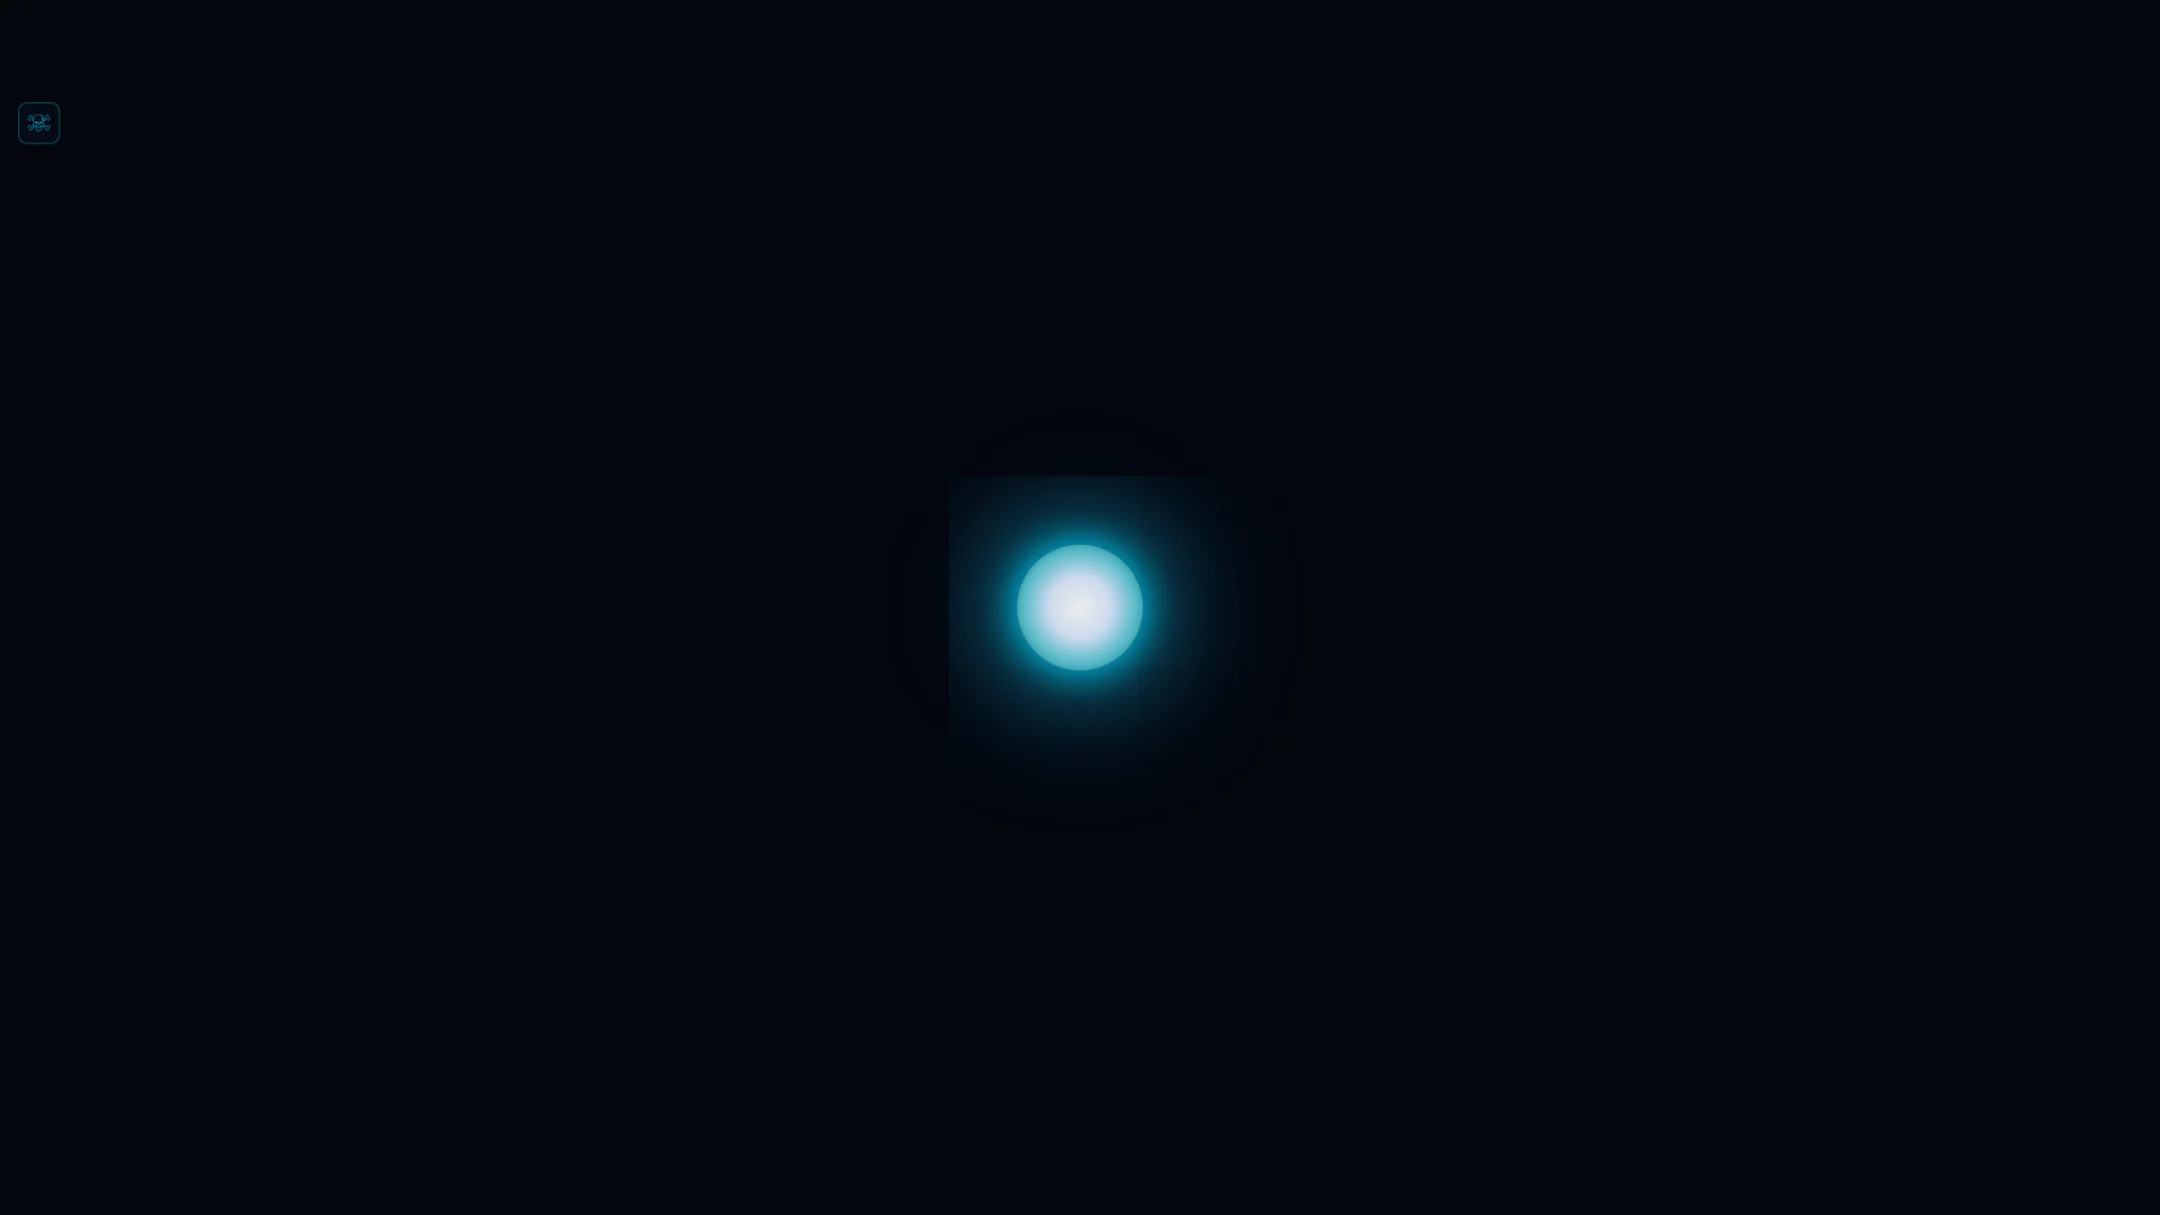
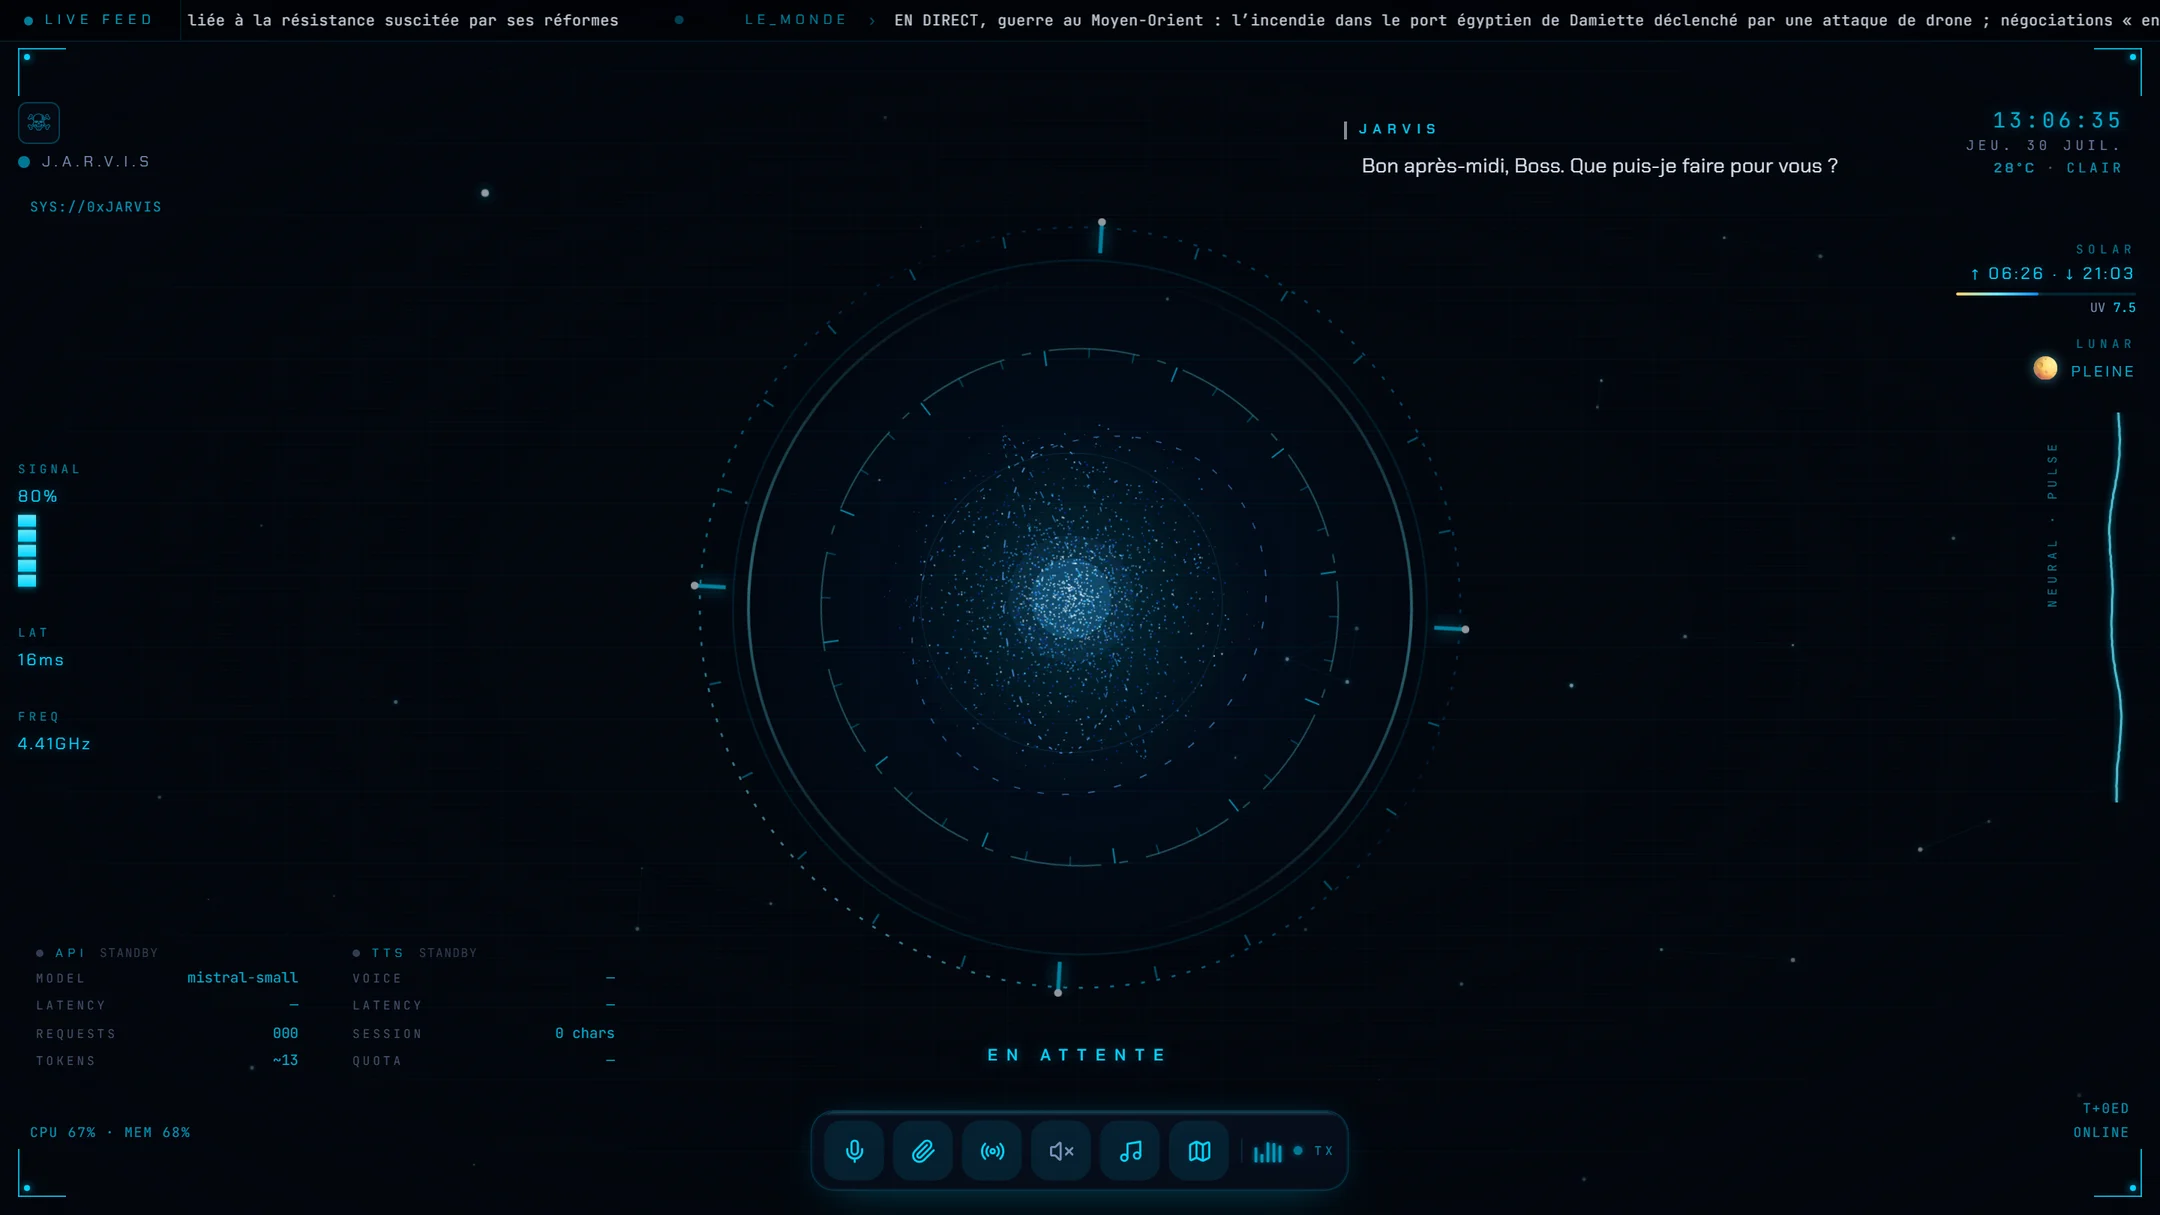
feat(thor): captures reelles de JARVIS, pilotees par navigateur
La capture en ligne de commande echouait depuis le debut : l'application attend
une permission de geolocalisation et un temps d'amorçage reel, et restait donc
figee sur son ecran de demarrage. Ce qui etait en ligne sur la fiche JARVIS
n'etait qu'un orbe sur fond noir — 8 Ko de vide.

Ajout de puppeteer-core en dependance de developpement pour piloter le
navigateur : permission accordee, position fixee, attente du retour au repos
avant declenchement. On pointe le Chrome deja installe plutot que de
telecharger un second navigateur.

Trois etats captures sur l'application en fonctionnement :
- le HUD au repos, flux d'actualites et telemetrie vivants (couverture)
- le mode ULTRON, protocole corrompu
- une recherche de proximite reelle, avec ses resultats geolocalises

La galerie JARVIS pointait sur des captures de la page demo du site elle-meme,
mal recadrees : elle montre desormais le produit.

diff --git a/lib/realisations.ts b/lib/realisations.ts
@@ -275,10 +275,12 @@ const REALISATIONS: Realisation[] = [
     status: "live",
     href: "https://jarvis-pi-pied.vercel.app/",
     cover: "/images/captures/jarvis.webp",
+    /* Captures prises sur l'application en fonctionnement, geolocalisation
+       accordee : le HUD au repos, le mode ULTRON, et une recherche de
+       proximite reelle avec ses resultats. */
     gallery: [
-      "/images/captures/jarvis-demo-1.webp",
-      "/images/captures/jarvis-demo-2.webp",
-      "/images/captures/jarvis-demo-3.webp",
+      "/images/captures/jarvis-2.webp",
+      "/images/captures/jarvis-3.webp",
     ],
     logo: "/images/logos/jarvis-mark.png",
     featured: true,
